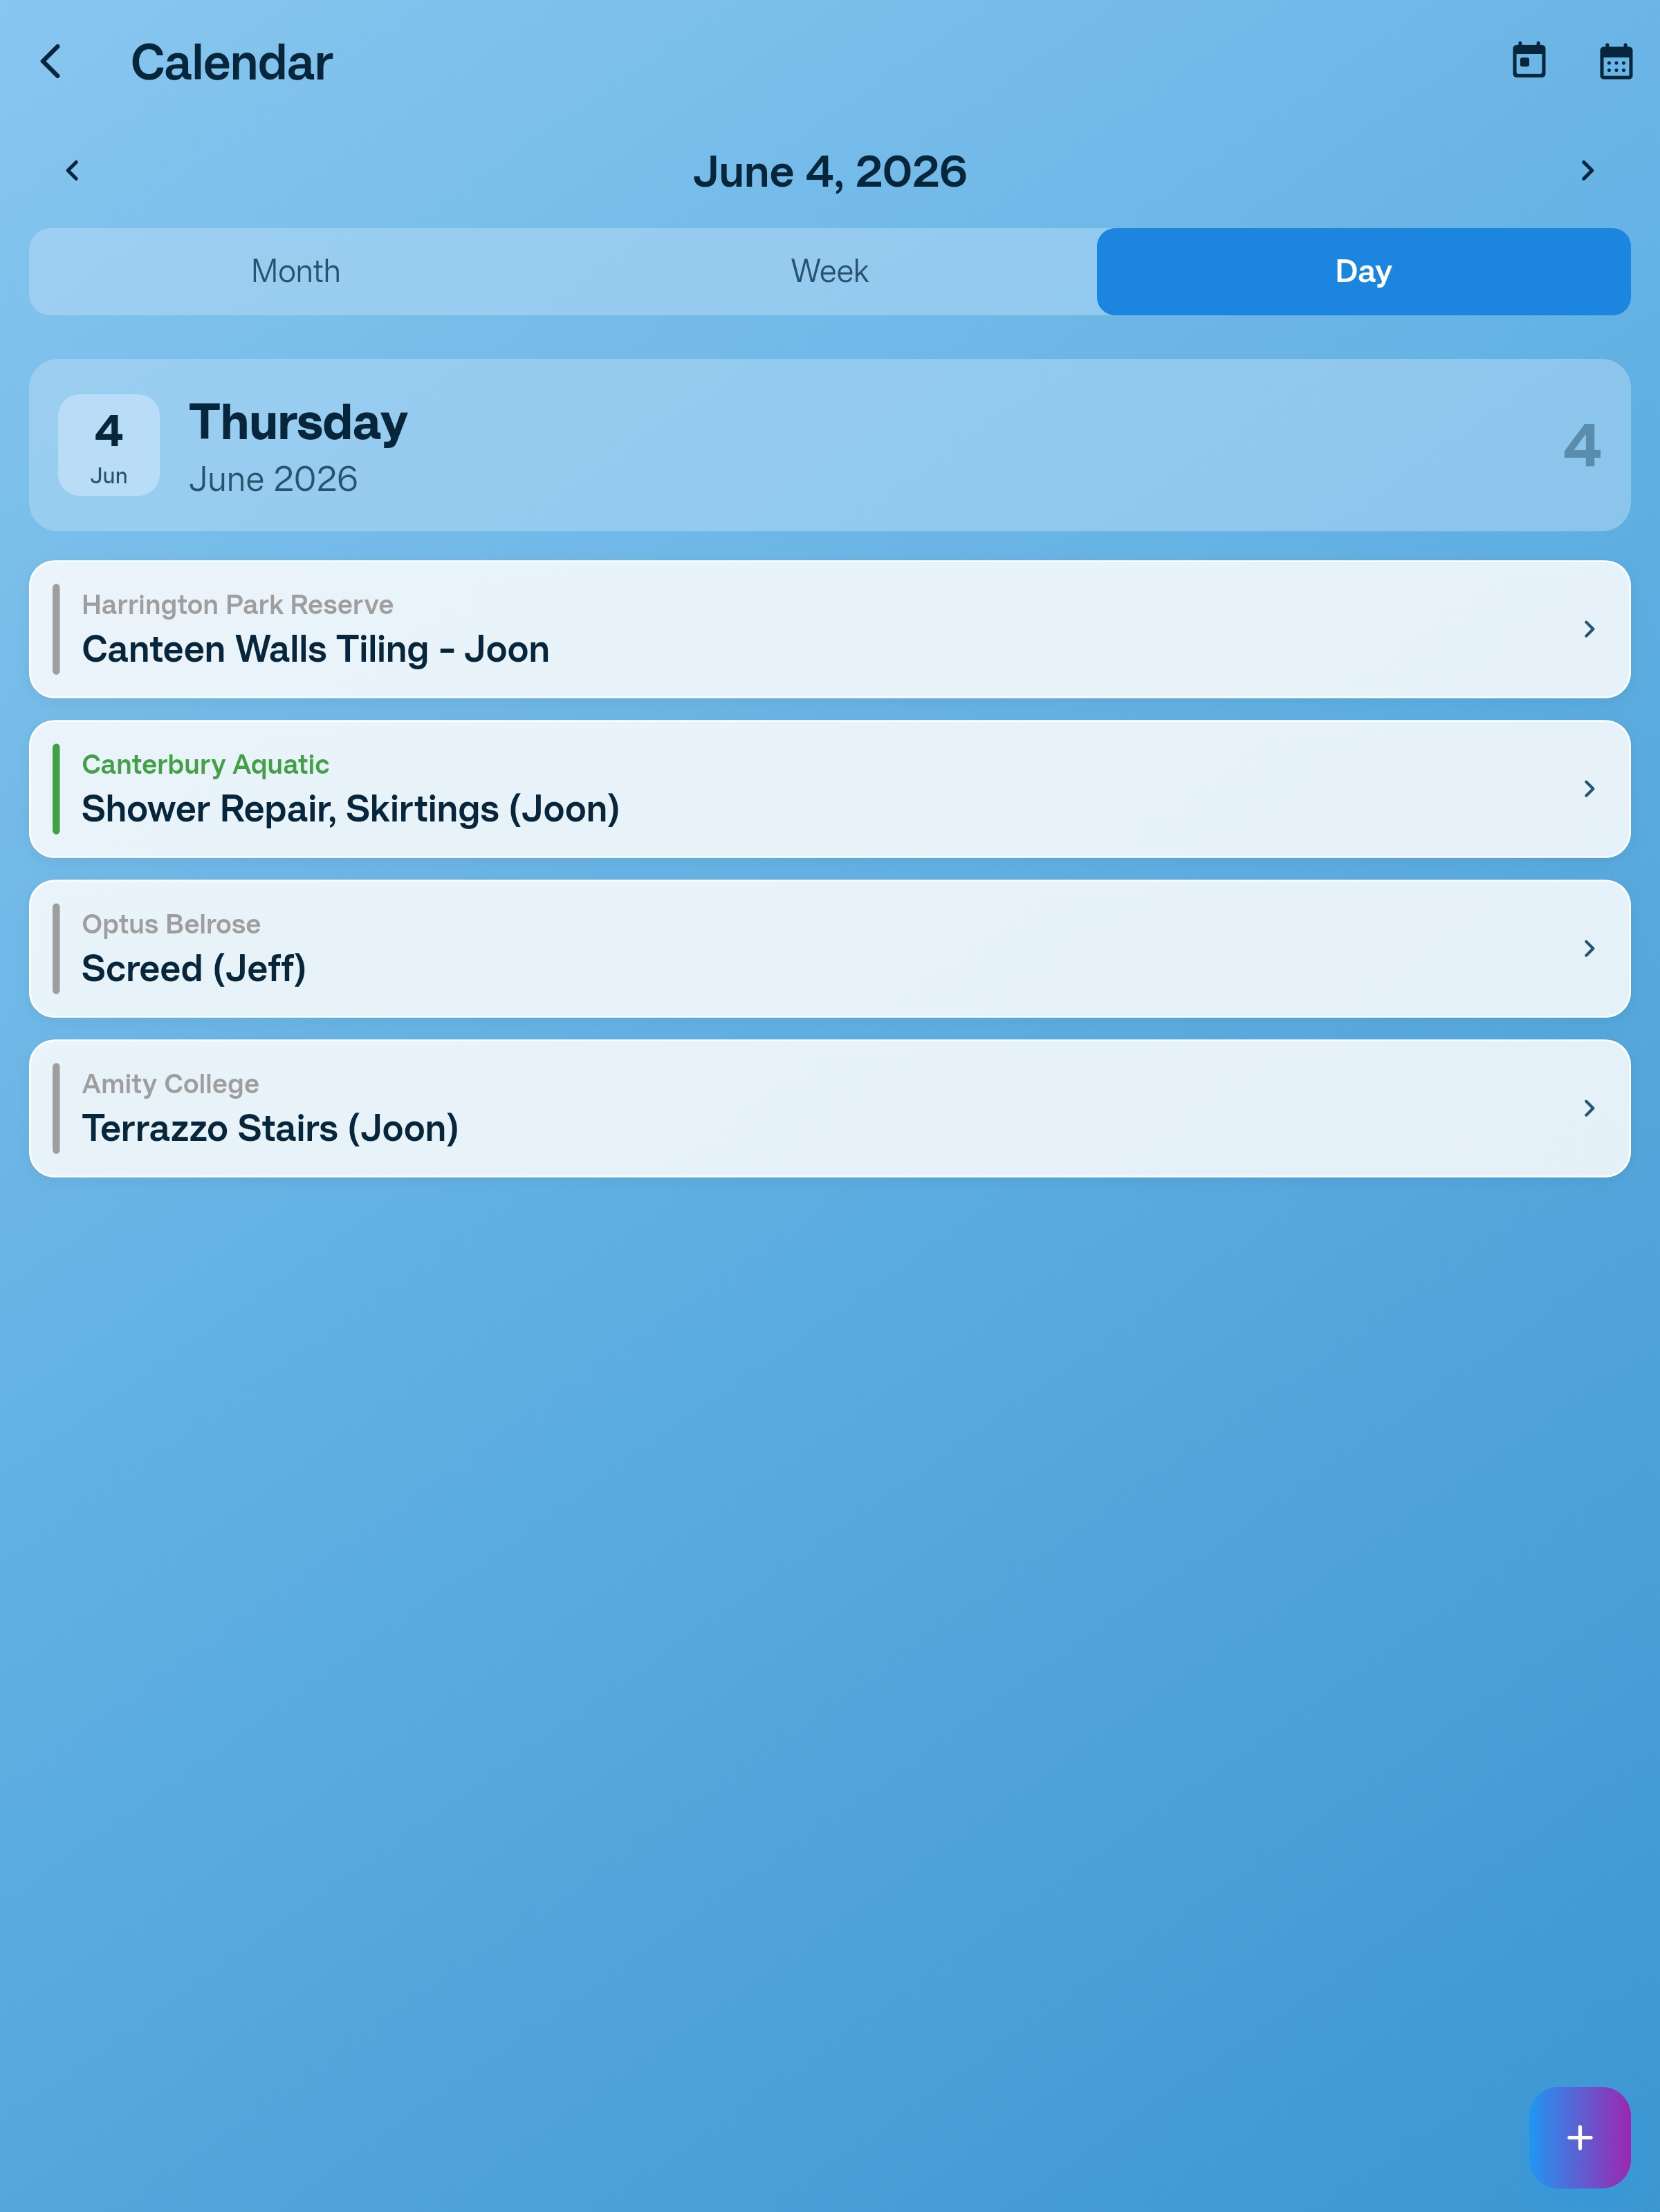
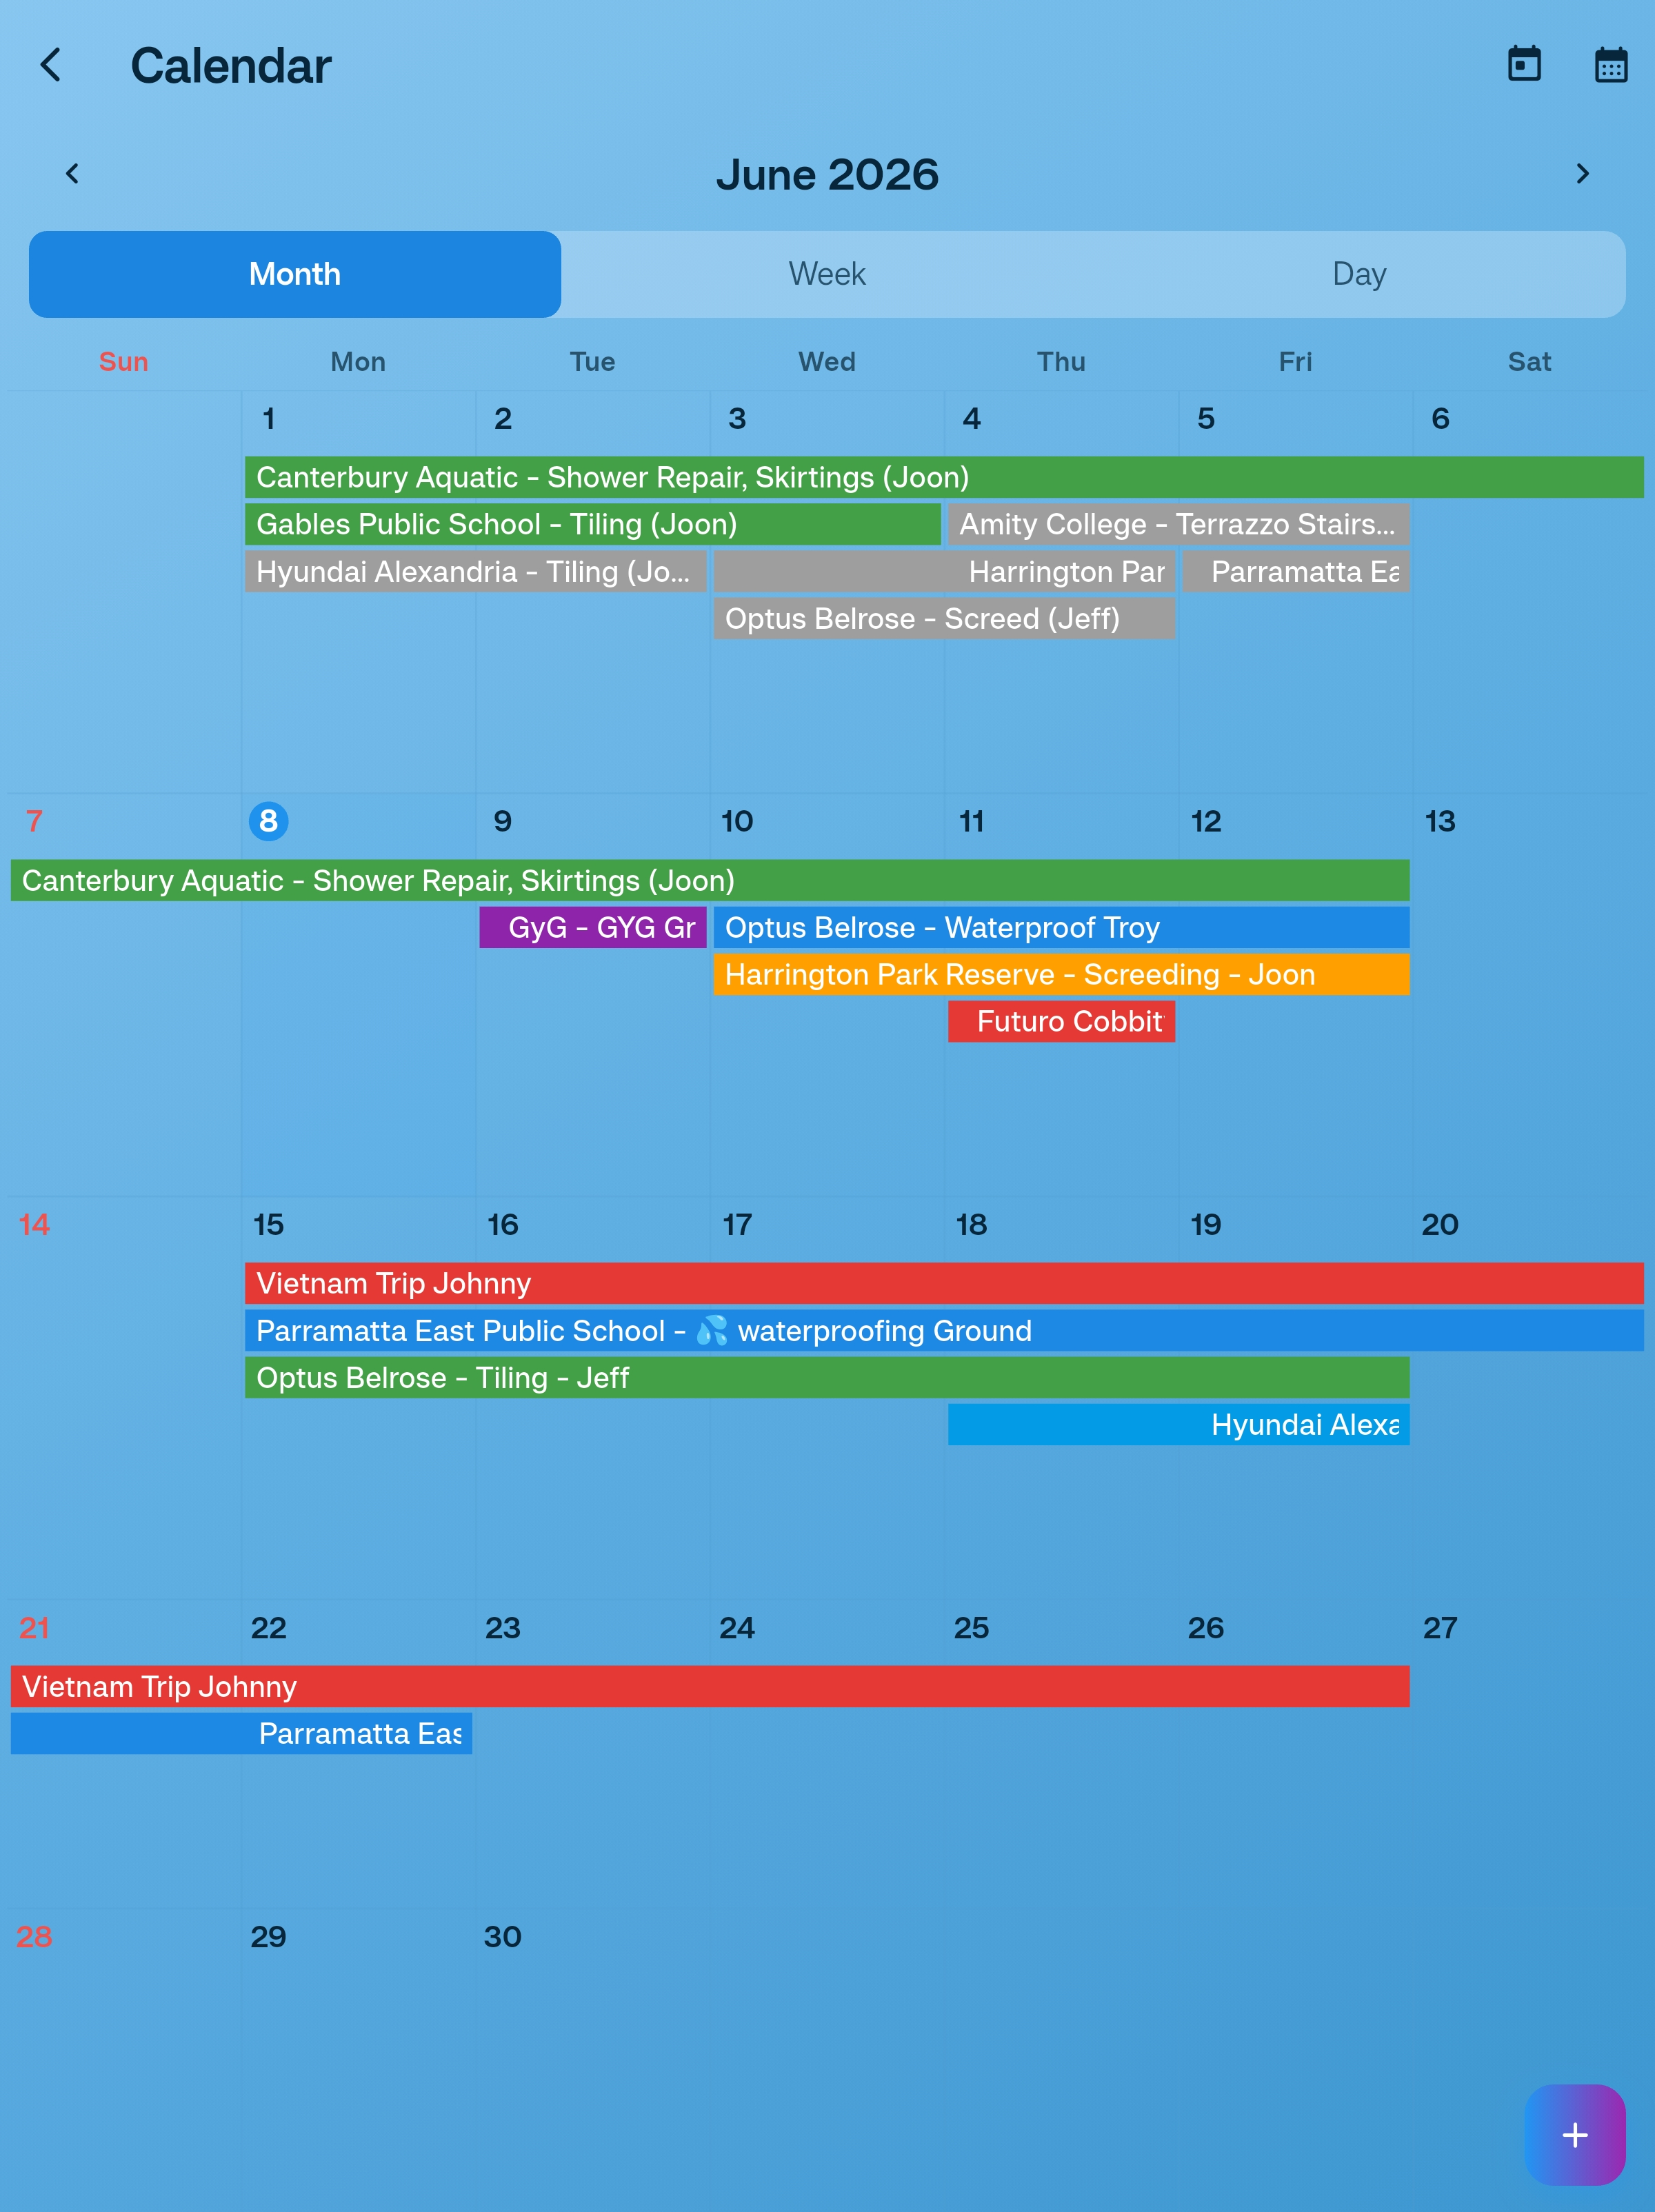
Update1

diff --git a/index.html b/index.html
@@ -1770,9 +1770,9 @@
                 <div class="feature-card"><div class="feature-image" data-img="Screenshot5.png" data-title="Trade Calculators"><img src="Screenshot5.png" alt="SCSK Trade Calculators"></div><div class="feature-content"><div class="feature-icon"><svg viewBox="0 0 24 24"><path d="M22.7 19l-9.1-9.1c.9-2.3.4-5-1.5-6.9-2-2-5-2.4-7.4-1.3L9 6 6 9 1.6 4.7C.4 7.1.9 10.1 2.9 12.1c1.9 1.9 4.6 2.4 6.9 1.5l9.1 9.1c.4.4 1 .4 1.4 0l2.3-2.3c.5-.4.5-1.1.1-1.4z"/></svg></div><h3>Trade Calculators</h3><p>15+ built-in calculators: tile, grout, paint, concrete, brick, waterproofing, electrical, pipe sizing, stairs, and more being added weekly.</p></div></div>
                 <div class="feature-card"><div class="feature-image" data-img="Screenshot6.png" data-title="Photo Documentation"><img src="Screenshot6.png" alt="SCSK Photo Documentation"></div><div class="feature-content"><div class="feature-icon"><svg viewBox="0 0 24 24"><path d="M21 19V5c0-1.1-.9-2-2-2H5c-1.1 0-2 .9-2 2v14c0 1.1.9 2 2 2h14c1.1 0 2-.9 2-2zM8.5 13.5l2.5 3.01L14.5 12l4.5 6H5l3.5-4.5z"/></svg></div><h3>Photo Documentation</h3><p>Capture, annotate with arrows/text/drawings, and organise photos by job. Export professional photo reports as PDF. Works 100% offline.</p></div></div>
                 <div class="feature-card"><div class="feature-image" data-img="Screenshot7.png" data-title="Materials Tracking"><img src="Screenshot7.png" alt="SCSK Materials Tracking"></div><div class="feature-content"><div class="feature-icon"><svg viewBox="0 0 24 24"><path d="M20 2H4c-1 0-2 .9-2 2v3.01c0 .72.43 1.34 1 1.69V20c0 1.1 1.1 2 2 2h14c.9 0 2-.9 2-2V8.7c.57-.35 1-.97 1-1.69V4c0-1.1-1-2-2-2zm-5 12H9v-2h6v2zm5-7H4V4h16v3z"/></svg></div><h3>Materials & Inventory</h3><p>Track materials, stock levels, suppliers, and job allocations. Colour-coded stock indicators help spot low, critical, and out-of-stock items quickly.</p></div></div>
-                <div class="feature-card"><div class="feature-image" data-img="Screenshot2.png" data-title="Project Checklists"><img src="Screenshot2.png" alt="SCSK Project Checklists"></div><div class="feature-content"><div class="feature-icon"><svg viewBox="0 0 24 24"><path d="M19 3H5c-1.1 0-2 .9-2 2v14c0 1.1.9 2 2 2h14c1.1 0 2-.9 2-2V5c0-1.1-.9-2-2-2zm-8 14H7v-2h4v2zm0-4H7v-2h4v2zm0-4H7V7h4v2zm6 8h-4v-2h4v2zm0-4h-4v-2h4v2zm0-4h-4V7h4v2z"/></svg></div><h3>Project Checklists</h3><p>Use built-in residential, commercial, and renovation templates or create custom checklists. Track progress, notes, custom items, and not-applicable items per project.</p></div></div>
-                <div class="feature-card"><div class="feature-image" data-img="Screenshot3.png" data-title="Team Permissions"><img src="Screenshot3.png" alt="SCSK Team Permissions"></div><div class="feature-content"><div class="feature-icon"><svg viewBox="0 0 24 24"><path d="M16 11c1.66 0 2.99-1.34 2.99-3S17.66 5 16 5s-3 1.34-3 3 1.34 3 3 3zM8 11c1.66 0 2.99-1.34 2.99-3S9.66 5 8 5 5 6.34 5 8s1.34 3 3 3zm0 2c-2.33 0-7 1.17-7 3.5V19h14v-2.5C15 14.17 10.33 13 8 13zm8 0c-.29 0-.62.02-.97.05 1.16.84 1.97 1.97 1.97 3.45V19h6v-2.5c0-2.33-4.67-3.5-7-3.5z"/></svg></div><h3>Team Management</h3><p>Invite team members and manage owner, admin, editor, and viewer permissions. Suspend, reactivate, or remove users as your crew changes.</p></div></div>
-                <div class="feature-card"><div class="feature-image" data-img="Screenshot1.png" data-title="Cross-Device Sync"><img src="Screenshot1.png" alt="SCSK Cross-Device Sync"></div><div class="feature-content"><div class="feature-icon"><svg viewBox="0 0 24 24"><path d="M21 10.12h-6.78l2.74-2.82c-2.73-2.7-7.15-2.8-9.88-.1-2.73 2.71-2.73 7.08 0 9.79s7.15 2.71 9.88 0C18.32 15.65 19 14.08 19 12.1h2c0 1.98-.88 4.55-2.64 6.29-3.51 3.48-9.21 3.48-12.72 0-3.5-3.47-3.53-9.11-.02-12.58s9.14-3.47 12.65 0L21 3v7.12z"/></svg></div><h3>Cross-Device Sync</h3><p>Keep projects, jobs, photos, documents, plans, contacts, materials, and notes moving between Android and Windows when signed into the same account.</p></div></div>
+                <div class="feature-card"><div class="feature-image" data-img="Screenshot2.png" data-title="Project Checklists"><img src="Screenshot8.png" alt="SCSK Project Checklists"></div><div class="feature-content"><div class="feature-icon"><svg viewBox="0 0 24 24"><path d="M19 3H5c-1.1 0-2 .9-2 2v14c0 1.1.9 2 2 2h14c1.1 0 2-.9 2-2V5c0-1.1-.9-2-2-2zm-8 14H7v-2h4v2zm0-4H7v-2h4v2zm0-4H7V7h4v2zm6 8h-4v-2h4v2zm0-4h-4v-2h4v2zm0-4h-4V7h4v2z"/></svg></div><h3>Project Checklists</h3><p>Use built-in residential, commercial, and renovation templates or create custom checklists. Track progress, notes, custom items, and not-applicable items per project.</p></div></div>
+                <div class="feature-card"><div class="feature-image" data-img="Screenshot3.png" data-title="Team Permissions"><img src="Screenshot9.png" alt="SCSK Team Permissions"></div><div class="feature-content"><div class="feature-icon"><svg viewBox="0 0 24 24"><path d="M16 11c1.66 0 2.99-1.34 2.99-3S17.66 5 16 5s-3 1.34-3 3 1.34 3 3 3zM8 11c1.66 0 2.99-1.34 2.99-3S9.66 5 8 5 5 6.34 5 8s1.34 3 3 3zm0 2c-2.33 0-7 1.17-7 3.5V19h14v-2.5C15 14.17 10.33 13 8 13zm8 0c-.29 0-.62.02-.97.05 1.16.84 1.97 1.97 1.97 3.45V19h6v-2.5c0-2.33-4.67-3.5-7-3.5z"/></svg></div><h3>Team Management</h3><p>Invite team members and manage owner, admin, editor, and viewer permissions. Suspend, reactivate, or remove users as your crew changes.</p></div></div>
+                <div class="feature-card"><div class="feature-image" data-img="Screenshot1.png" data-title="Cross-Device Sync"><img src="Screenshot10.png" alt="SCSK Cross-Device Sync"></div><div class="feature-content"><div class="feature-icon"><svg viewBox="0 0 24 24"><path d="M21 10.12h-6.78l2.74-2.82c-2.73-2.7-7.15-2.8-9.88-.1-2.73 2.71-2.73 7.08 0 9.79s7.15 2.71 9.88 0C18.32 15.65 19 14.08 19 12.1h2c0 1.98-.88 4.55-2.64 6.29-3.51 3.48-9.21 3.48-12.72 0-3.5-3.47-3.53-9.11-.02-12.58s9.14-3.47 12.65 0L21 3v7.12z"/></svg></div><h3>Cross-Device Sync</h3><p>Keep projects, jobs, photos, documents, plans, contacts, materials, and notes moving between Android and Windows when signed into the same account.</p></div></div>
             </div>
         </div>
     </section>